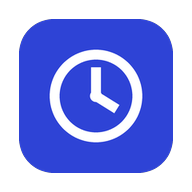
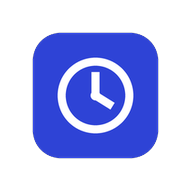
V2.02.07: sigla da agência no card segue a cor da letra; ícone do app com margem igual aos outros apps
Claude-Session: https://claude.ai/code/session_018yerPYMkKr6UzfG4azh9kd

diff --git a/js/view-registry.js b/js/view-registry.js
@@ -123,7 +123,7 @@ function openParty(kind, id) {
       const sum = (fn) => ps.reduce((s, p) => s + (fn(p) || 0), 0);
       const ag = kind === 'client' ? db.get('tempo_agencies', x.agency_id) : null;
       return `<div class="dh"><div class="grow"><div class="small muted">${kind === 'agency' ? 'Agência contratante' : 'Cliente' + (ag ? ' · ' + esc(ag.name) : ' direto')}</div>${kind === 'agency'
-  ? `<h2 class="party-name">${esc(x.name)}</h2><button type="button" class="party-color row" style="gap:8px" data-act="party-color" data-kind="${kind}" data-id="${id}" title="Mudar cor" aria-label="Mudar cor">${tag(x.name, x.color, { upper: true, fg: partyFg(kind, id) })}<span class="tag tg abbr mono small" style="${cssTb(x.color)}">${esc(agencyAbbr(x))}</span></button>`
+  ? `<h2 class="party-name">${esc(x.name)}</h2><button type="button" class="party-color row" style="gap:8px" data-act="party-color" data-kind="${kind}" data-id="${id}" title="Mudar cor" aria-label="Mudar cor">${tag(x.name, x.color, { upper: true, fg: partyFg(kind, id) })}<span class="tag tg abbr mono small" style="${cssTb(x.color)}${partyFg(kind, id) ? ';color:' + partyFg(kind, id) : ''}">${esc(agencyAbbr(x))}</span></button>`
   : `<h2 class="row" style="gap:8px;margin-top:2px"><button type="button" class="party-color" data-act="party-color" data-kind="${kind}" data-id="${id}" title="Mudar cor" aria-label="Mudar cor">${clientTag(x)}</button></h2>`}</div><button class="btn icon ghost" data-act="close-layer" aria-label="Fechar">${icon('x')}</button></div>
       <div class="db">
         <div class="kpis"><div class="kpi"><span class="k">Projetos</span><span class="v">${ps.length}</span></div><div class="kpi"><span class="k">Horas</span><span class="v">${fmtH(ms)}</span><span class="s">bruto ${fmtH(ps.reduce((t, p) => t + db.where('tempo_time_entries', e => e.project_id === p.id).reduce((u, e) => u + entryBrutoMs(e), 0), 0))}</span></div><div class="kpi"><span class="k">Orçado</span><span class="v">${fmtMoney0(sum(p => Number(p.budget)))}</span></div><div class="kpi"><span class="k">Em aberto</span><span class="v">${fmtMoney0(sum(remainingOf))}</span></div></div>

diff --git a/js/config.js b/js/config.js
@@ -7,4 +7,4 @@ window.TEMPO_CFG = {
 };
 
 /* versão exibida no rodapé da barra lateral; aumentar a cada publicação */
-const APP_VERSION = 'V2.02.06';
+const APP_VERSION = 'V2.02.07';
